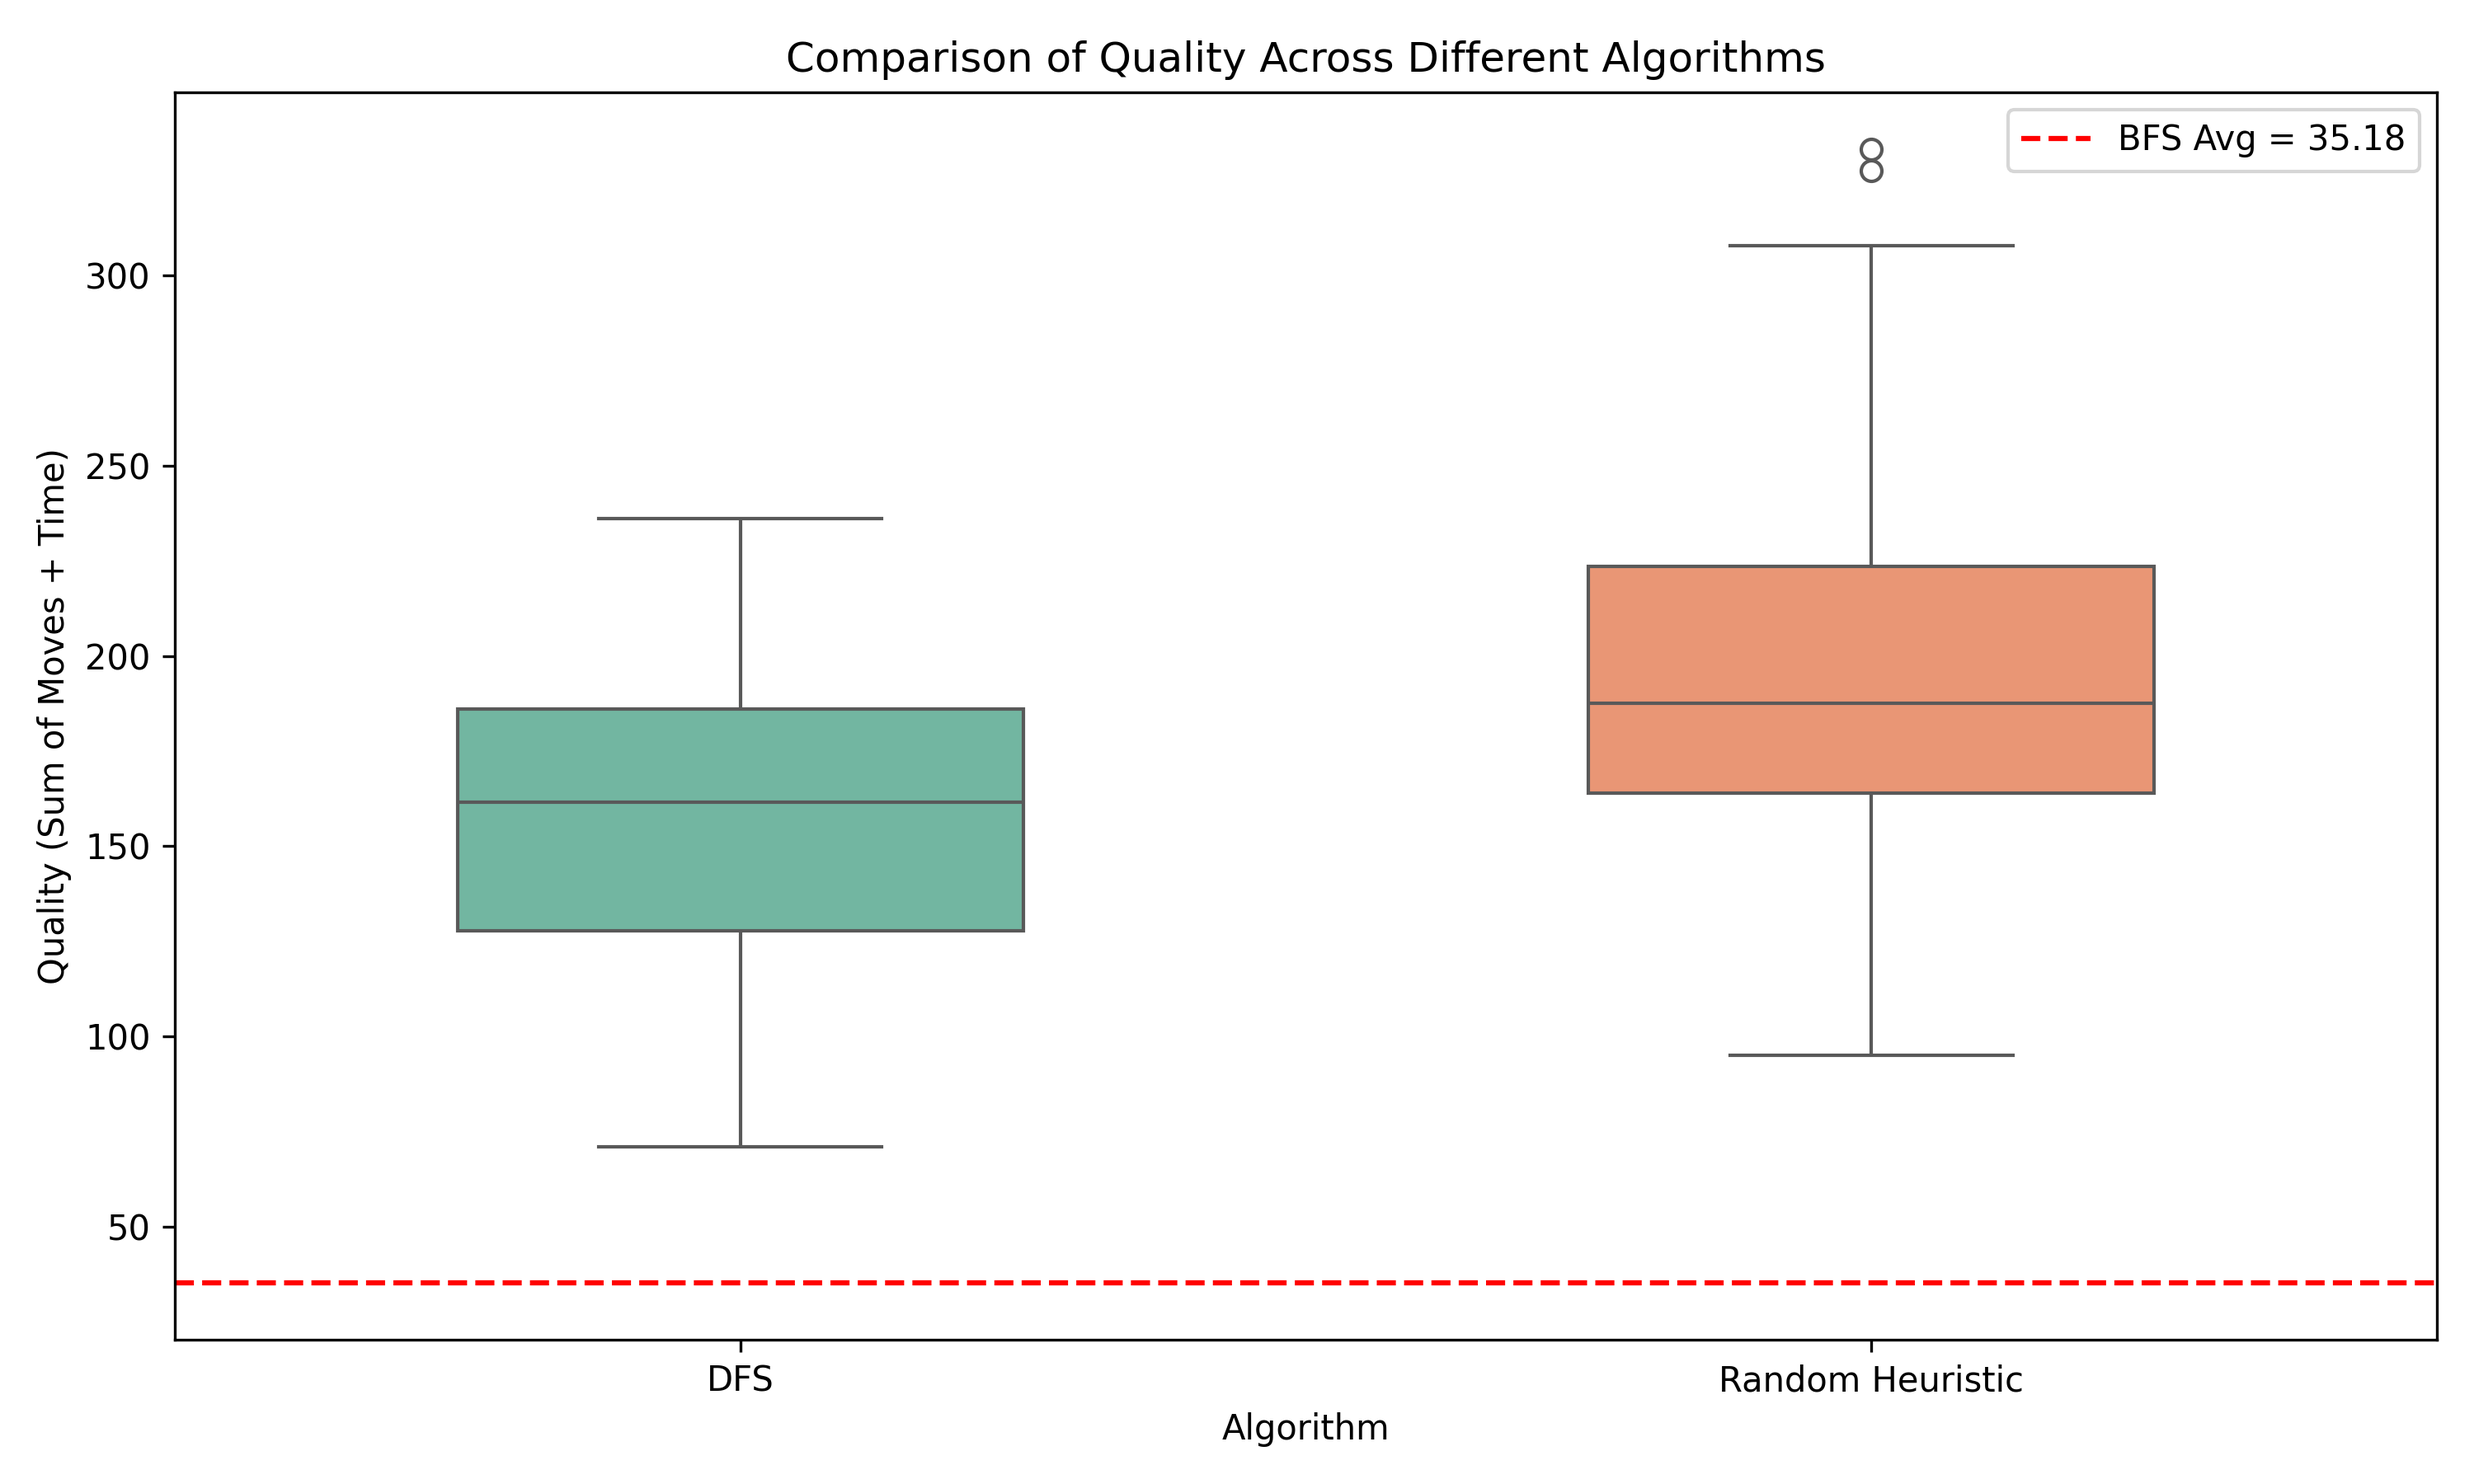
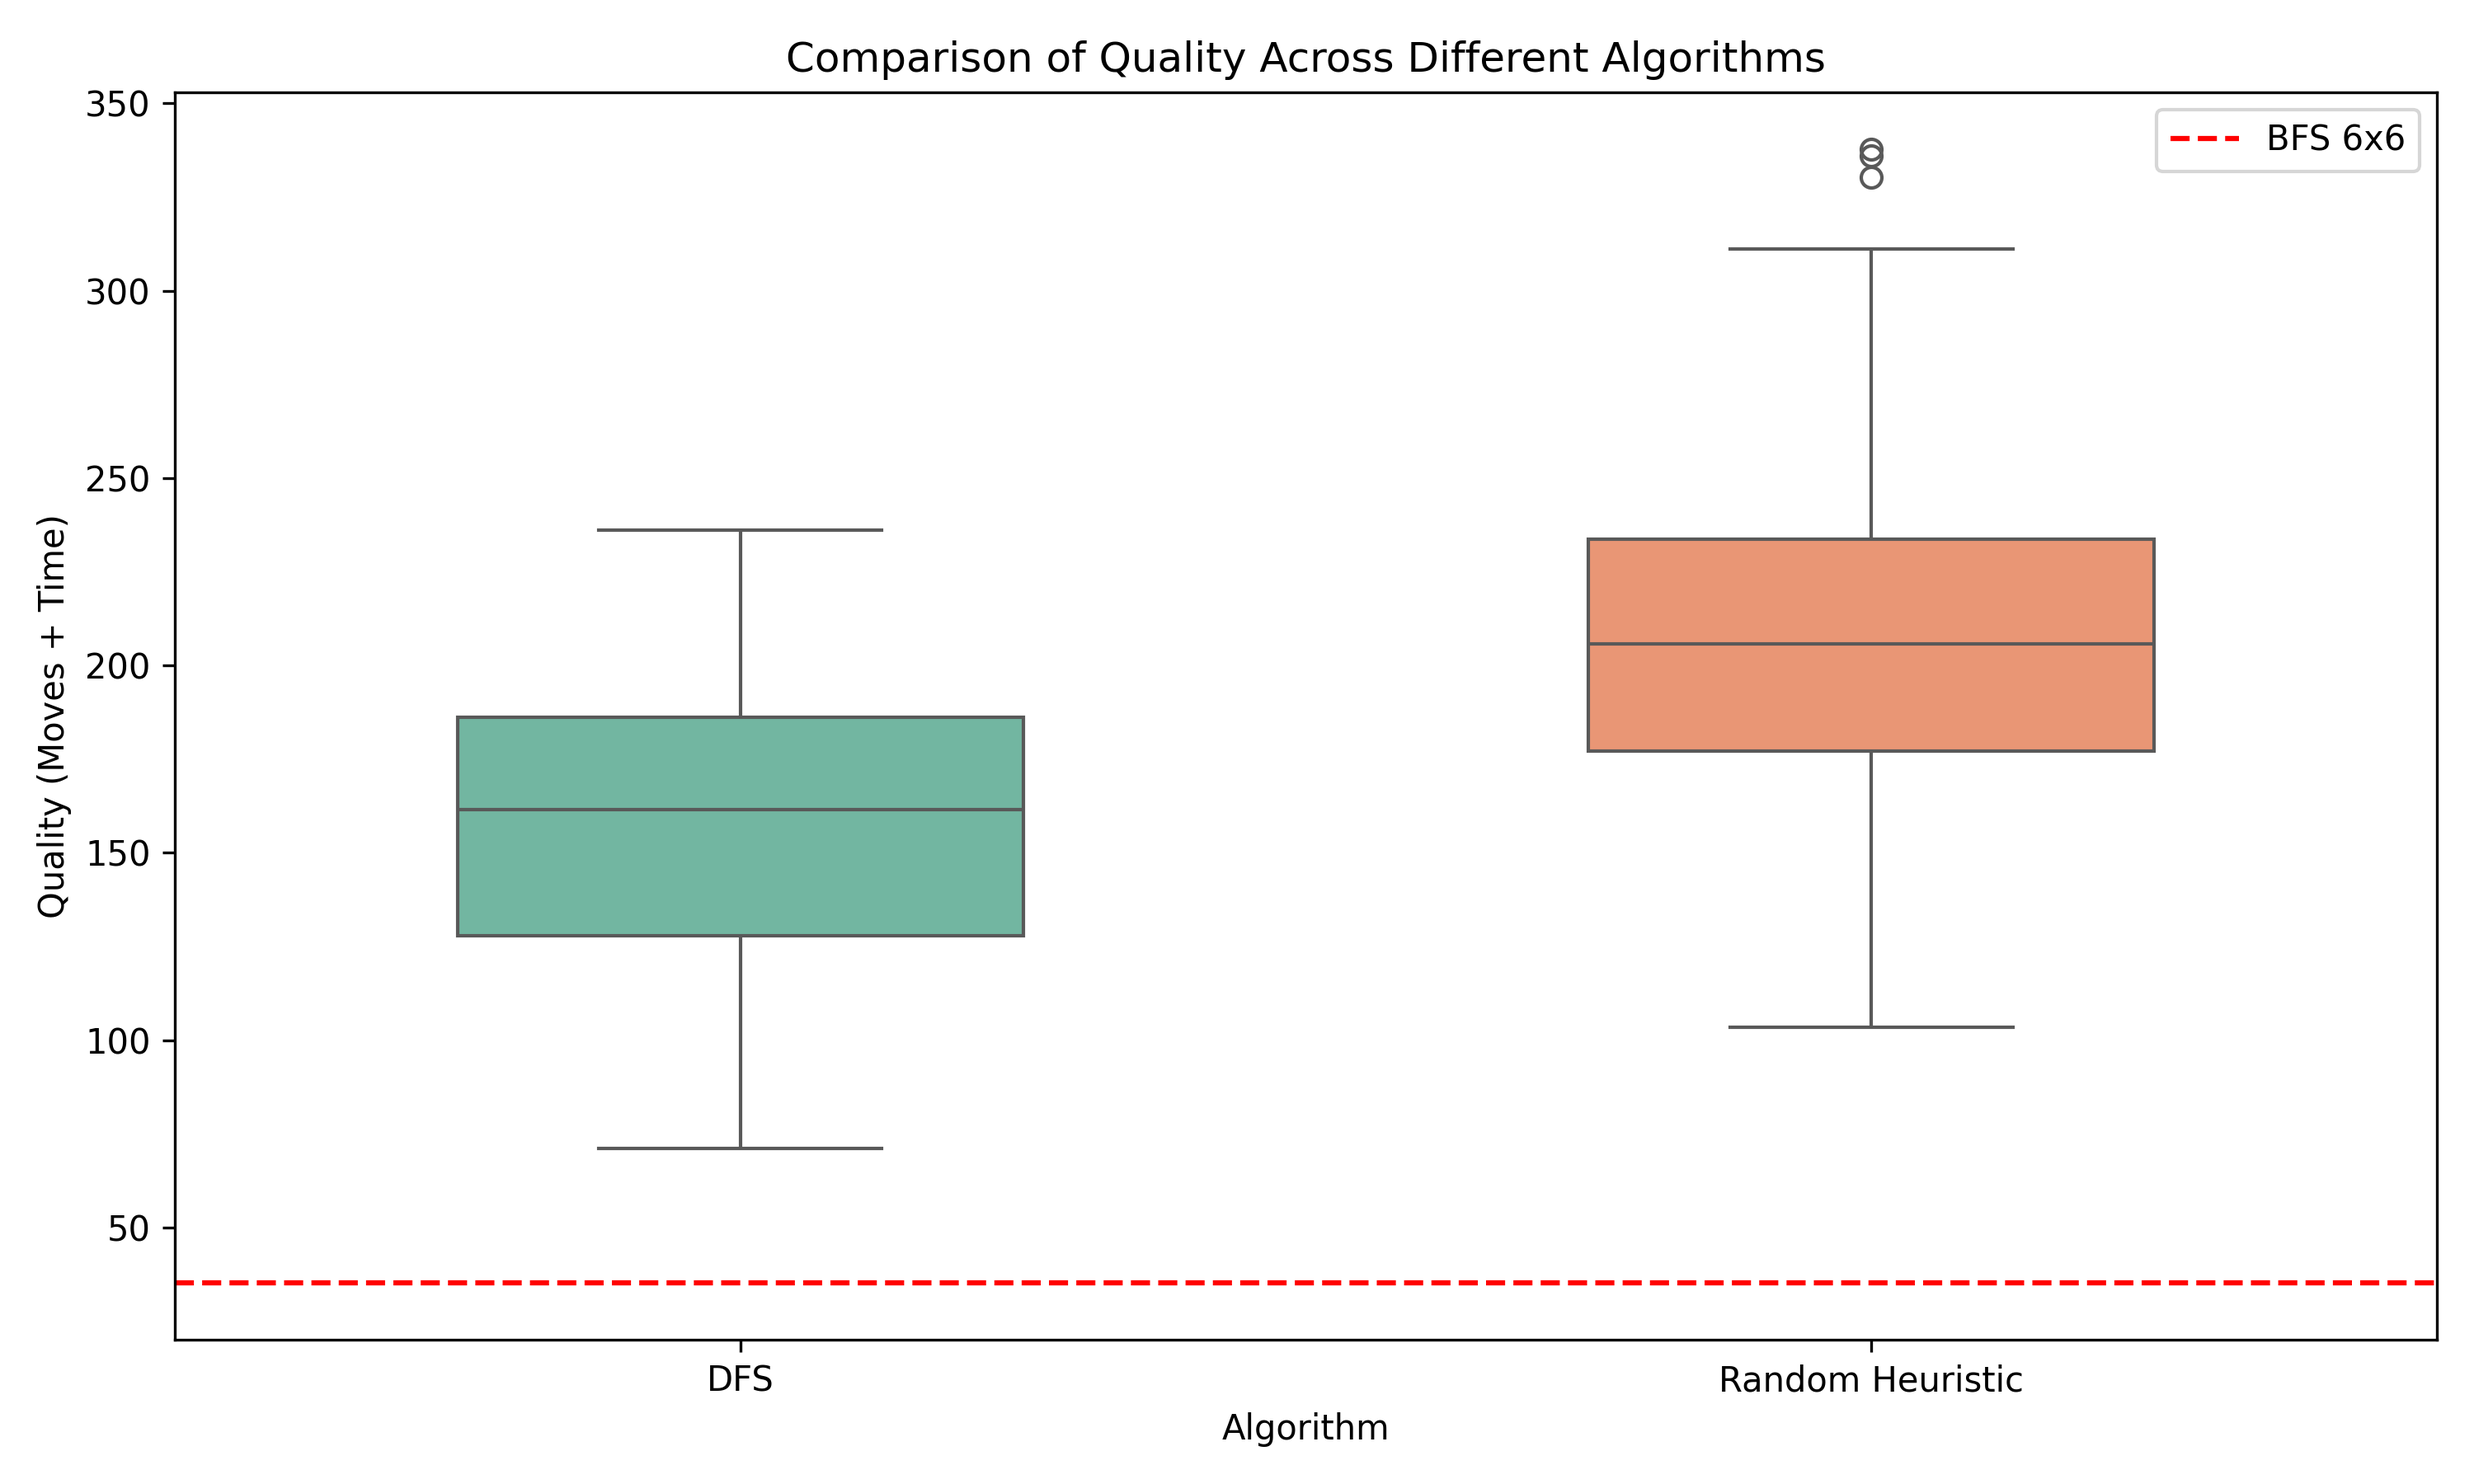
graphs

diff --git a/results/results_all_boards_per_alg.py b/results/results_all_boards_per_alg.py
@@ -1,0 +1,99 @@
+import pandas as pd
+import matplotlib.pyplot as plt
+import seaborn as sns
+import statistics
+
+### BOXPLOT RESULTS DIFFERENT ALGORITHMS (6x6 and)###
+
+# Load data for 6x6 and 9x9 boards
+results_1 = pd.read_csv("results\\depth_first_search\\dfs_results_6x6_1.csv")
+results_2 = pd.read_csv("results\\breadth_first_search\\bfs_results_bord1.csv")
+results_3 = pd.read_csv("results\\random_algorithm_heuristics\\6x6_1\\6x6_1_merged.csv")
+
+results_4 = pd.read_csv("results\\depth_first_search\\dfs_results-9x9_4.csv")
+results_5 = pd.read_csv("results\\breadth_first_search\\bfs_results4.csv")
+results_6 = pd.read_csv("results\\random_algorithm_heuristics\\9x9_4\\9x9_4_merged.csv")
+
+results_7 = pd.read_csv("results\\random_algorithm_heuristics\\12x12_7\\12x12_7_merged.csv")
+
+# Keep only the necessary two columns
+results_1 = results_1.iloc[:100, :2]
+results_2 = results_2.iloc[:100, :2]
+results_3 = results_3.iloc[:, [0,2]]
+
+results_4 = results_4.iloc[:100, :2]
+results_5 = results_5.iloc[:100, :2]
+results_6 = results_6.iloc[:, [0,2]]
+
+results_7 = results_7.iloc[:, [0,2]]
+
+# Create quality variable according to our quality function
+results_1['quality'] = results_1.iloc[:, 0] + results_1.iloc[:, 1]
+results_2['quality'] = results_2.iloc[:, 0] + results_2.iloc[:, 1]
+results_3['quality'] = results_3.iloc[:, 0] + results_3.iloc[:, 1]
+
+results_4['quality'] = results_4.iloc[:, 0] + results_4.iloc[:, 1]
+results_5['quality'] = results_5.iloc[:, 0] + results_5.iloc[:, 1]
+results_6['quality'] = results_6.iloc[:, 0] + results_6.iloc[:, 1]
+
+results_7['quality'] = results_7.iloc[:, 0] + results_7.iloc[:, 1]
+
+# the random heuristic algorithm has different result format, adjust
+results_3_list = []
+results_6_list = []
+results_7_list = []
+
+for i in range(results_3.shape[0] -1):
+    current_turns = results_3.iloc[i, 0]
+    next_turns = results_3.iloc[i+1, 0]
+    if next_turns > current_turns:
+        results_3_list.append(results_3.iloc[i, :].to_list())
+
+for i in range(results_6.shape[0] -1):
+    current_turns = results_6.iloc[i, 0]
+    next_turns = results_6.iloc[i+1, 0]
+    if next_turns > current_turns:
+        results_6_list.append(results_6.iloc[i, :].to_list())
+
+for i in range(results_7.shape[0] -1):
+    current_turns = results_7.iloc[i, 0]
+    next_turns = results_7.iloc[i+1, 0]
+    if next_turns > current_turns:
+        results_7_list.append(results_7.iloc[i, :].to_list())
+
+# Convert filtered results_3_list and results_6_list to a DataFrame
+results_3 = pd.DataFrame(results_3_list, columns=results_3.columns[:])
+results_6 = pd.DataFrame(results_6_list, columns=results_6.columns[:])
+results_7 = pd.DataFrame(results_7_list, columns=results_7.columns[:])
+
+# Add an identifier column for grouping
+results_1['Algorithm'] = 'DFS (6x6)'
+results_3['Algorithm'] = 'RH (6x6)'
+results_4['Algorithm'] = 'DFS (9x9)'
+results_6['Algorithm'] = 'RH (9x9)'
+results_7['Algorithm'] = 'RH (12x12)'
+
+# Merge all results into one DataFrame excluding BFS results
+all_results = pd.concat([results_1, results_3, results_4, results_6, results_7])
+
+# Create the boxplot
+plt.figure(figsize=(10, 6))
+sns.boxplot(x="Algorithm", y="quality", data=all_results, width=0.4, palette="Set2")
+
+# Calculate BFS average lines (but don't plot BFS in boxplot)
+bfs_6x6_avg = results_2['quality'].mean()
+bfs_9x9_avg = results_5['quality'].mean()
+
+# Add BFS average as horizontal reference lines
+plt.axhline(bfs_6x6_avg, color="red", linestyle="dashed", label="BFS 6x6")
+plt.axhline(bfs_9x9_avg, color="darkred", linestyle="dashed", label="BFS 9x9")
+
+# Labels, title and legend
+plt.xlabel("Algorithm")
+plt.ylabel("Quality (Moves + Time)")
+plt.title('Performance per Algorithm')
+plt.legend()
+
+# Save and show
+plt.savefig("visuals\\results_all_boards_per_alg.png", dpi=300)
+plt.show()

diff --git a/results/results_6x6_and_9x9_per_alg.py b/results/results_6x6_and_9x9_per_alg.py
@@ -1,0 +1,87 @@
+import pandas as pd
+import matplotlib.pyplot as plt
+import seaborn as sns
+import statistics
+
+### BOXPLOT RESULTS DIFFERENT ALGORITHMS (6x6 and)###
+
+# Load data for 6x6 and 9x9 boards
+results_1 = pd.read_csv("results\\depth_first_search\\dfs_results_6x6_1.csv")
+results_2 = pd.read_csv("results\\breadth_first_search\\bfs_results_bord1.csv")
+results_3 = pd.read_csv("results\\random_algorithm_heuristics\\6x6_1\\6x6_1_merged.csv")
+
+results_4 = pd.read_csv("results\\depth_first_search\\dfs_results-9x9_4.csv")
+results_5 = pd.read_csv("results\\breadth_first_search\\bfs_results4.csv")
+results_6 = pd.read_csv("results\\random_algorithm_heuristics\\9x9_4\\9x9_4_merged.csv")
+
+# Keep only the necessary two columns
+results_1 = results_1.iloc[:100, :2]
+results_2 = results_2.iloc[:100, :2]
+results_3 = results_3.iloc[:, [0,2]]
+
+results_4 = results_4.iloc[:100, :2]
+results_5 = results_5.iloc[:100, :2]
+results_6 = results_6.iloc[:, [0,2]]
+
+# Create quality variable according to our quality function
+results_1['quality'] = results_1.iloc[:, 0] + results_1.iloc[:, 1]
+results_2['quality'] = results_2.iloc[:, 0] + results_2.iloc[:, 1]
+results_3['quality'] = results_3.iloc[:, 0] + results_3.iloc[:, 1]
+
+results_4['quality'] = results_4.iloc[:, 0] + results_4.iloc[:, 1]
+results_5['quality'] = results_5.iloc[:, 0] + results_5.iloc[:, 1]
+results_6['quality'] = results_6.iloc[:, 0] + results_6.iloc[:, 1]
+
+# the random heuristic algorithm has different result format, adjust
+results_3_list = []
+results_6_list = []
+
+for i in range(results_3.shape[0] -1):
+    current_turns = results_3.iloc[i, 0]
+    next_turns = results_3.iloc[i+1, 0]
+    if next_turns > current_turns:
+        results_3_list.append(results_3.iloc[i, :].to_list())
+
+for i in range(results_6.shape[0] -1):
+    current_turns = results_6.iloc[i, 0]
+    next_turns = results_6.iloc[i+1, 0]
+    if next_turns > current_turns:
+        results_6_list.append(results_6.iloc[i, :].to_list())
+
+# Convert filtered results_3_list and results_6_list to a DataFrame
+results_3 = pd.DataFrame(results_3_list, columns=results_3.columns[:])
+results_6 = pd.DataFrame(results_6_list, columns=results_6.columns[:])
+
+# Add an identifier column for grouping
+results_1['Algorithm'] = 'DFS (6x6)'
+results_3['Algorithm'] = 'RH (6x6)'
+results_4['Algorithm'] = 'DFS (9x9)'
+results_6['Algorithm'] = 'RH (9x9)'
+
+# Merge all results into one DataFrame excluding BFS results
+all_results = pd.concat([results_1, results_3, results_4, results_6])
+
+# Create the boxplot
+plt.figure(figsize=(10, 6))
+sns.boxplot(x="Algorithm", y="quality", data=all_results, width=0.4, palette="Set2")
+
+# Calculate BFS average lines (but don't plot BFS in boxplot)
+bfs_6x6_avg = results_2['quality'].mean()
+bfs_9x9_avg = results_5['quality'].mean()
+
+# Add BFS average as horizontal reference lines
+plt.axhline(bfs_6x6_avg, color="red", linestyle="dashed", label="BFS 6x6")
+plt.axhline(bfs_9x9_avg, color="darkred", linestyle="dashed", label="BFS 9x9")
+
+# Labels and title
+plt.xlabel("Algorithm")
+plt.ylabel("Quality (Moves + Time)")
+plt.title('Performance per Algorithm')
+
+# Display legend
+plt.legend()
+
+# Save and show
+plt.savefig("visuals\\results_6x6_and_9x9_per_alg.png", dpi=300)
+plt.show()
+

diff --git a/results/results_6x6_per_alg.py b/results/results_6x6_per_alg.py
@@ -39,7 +39,7 @@ bfs_avg = results_2['quality'].mean()
 # Filter results for each algorithm
 results_1['algorithm'] = 'DFS'
 results_2['algorithm'] = 'BFS'
-results_3['algorithm'] = 'Random Heuristic'
+results_3['algorithm'] = 'RH'
 
 # Combine the data for the boxplot (excluding BFS from the boxplot data)
 combined_results = pd.concat([results_1[['quality', 'algorithm']], 
@@ -50,12 +50,12 @@ plt.figure(figsize=(10, 6))
 sns.boxplot(x='algorithm', y='quality', data=combined_results, palette="Set2", width = 0.5)
 
 # Add a horizontal line for the BFS average quality value
-plt.axhline(y=bfs_avg, color='r', linestyle='--', label=f'BFS Avg = {bfs_avg:.2f}')
+plt.axhline(y=bfs_avg, color='r', linestyle='--', label=f'BFS 6x6')
 
 # Add title and labels
-plt.title('Comparison of Quality Across Different Algorithms')
+plt.title('Performance per Algorithm')
 plt.xlabel('Algorithm')
-plt.ylabel('Quality (Sum of Moves + Time)')
+plt.ylabel('Quality (Moves + Time)')
 
 # Add legend
 plt.legend()
